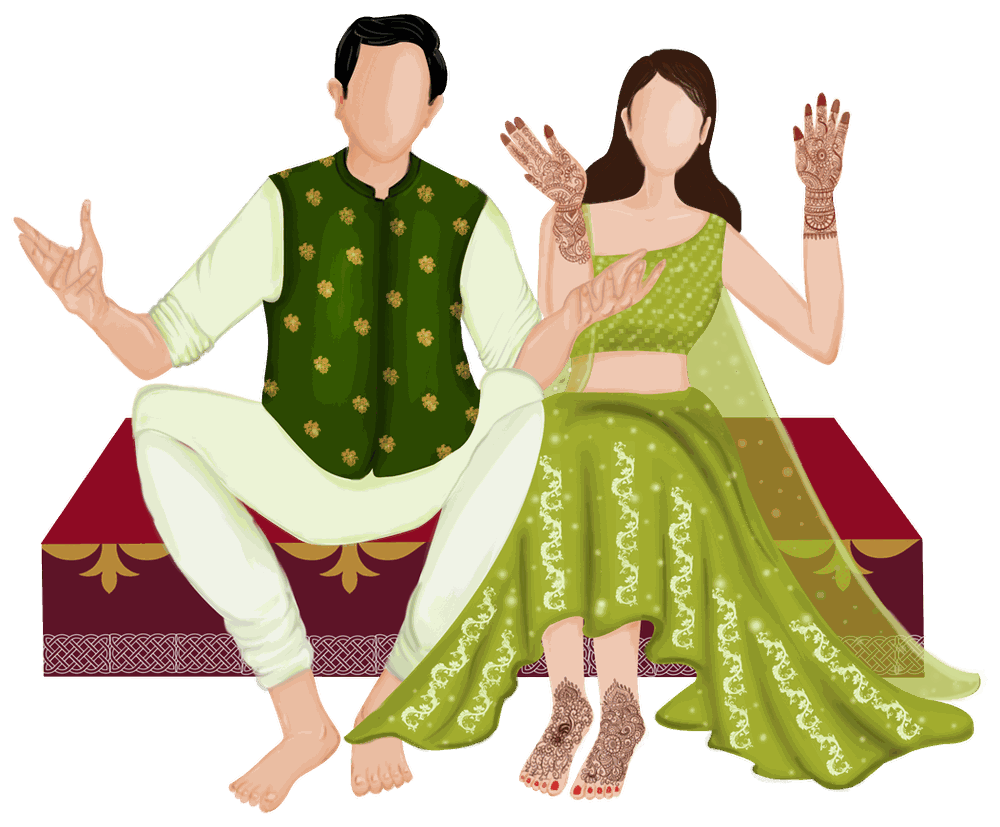
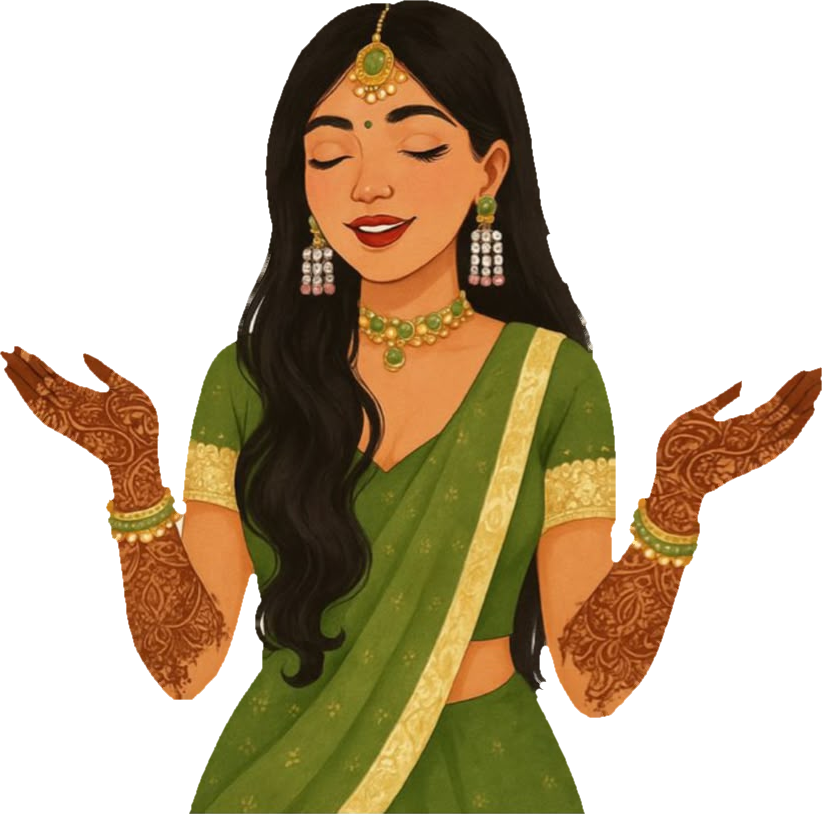
Madhrengi image update
Madhrengi image update

diff --git a/index.html b/index.html
@@ -541,8 +541,10 @@ header.hero{
   --fig-w:80%;--fig-h:88%;--fig-drop:0%;
   --fig-scrim:rgba(253,246,222,.82);--fig-shadow:rgba(146,104,28,.26);
 }
+/* a half-figure, cut off at the waist: it sits flush on the panel edge so the
+   cut reads as her carrying on past it, never as a line drawn across her */
 .event[data-tint="madhrengi"] .ev-photo .frame{
-  --fig-w:88%;--fig-h:70%;--fig-drop:9%;
+  --fig-w:82%;--fig-h:84%;--fig-drop:0%;
   --fig-scrim:rgba(74,52,33,.88);--fig-shadow:rgba(0,0,0,.5);
 }
 .event[data-tint="dhare"] .ev-photo .frame{
